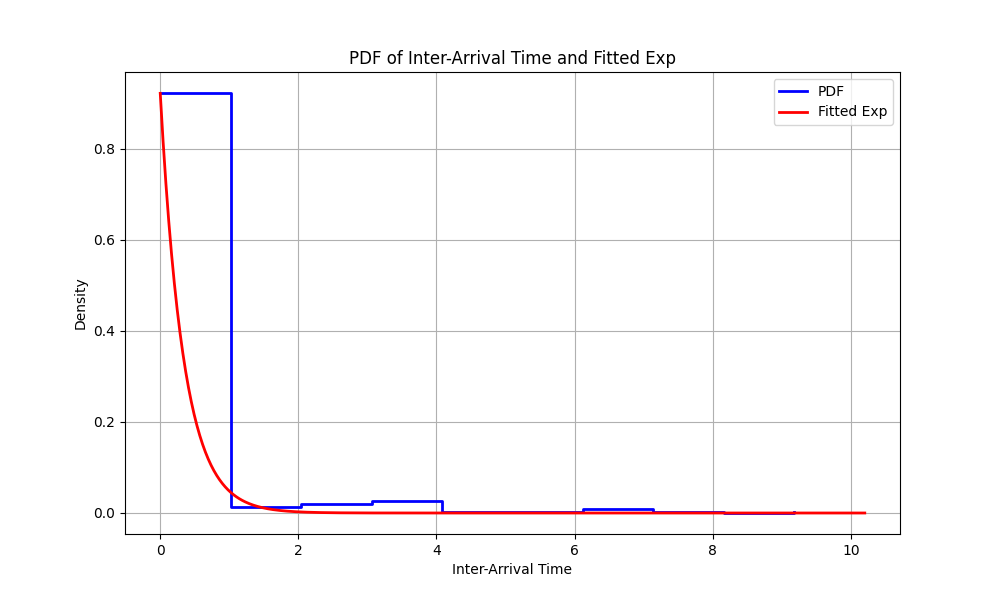
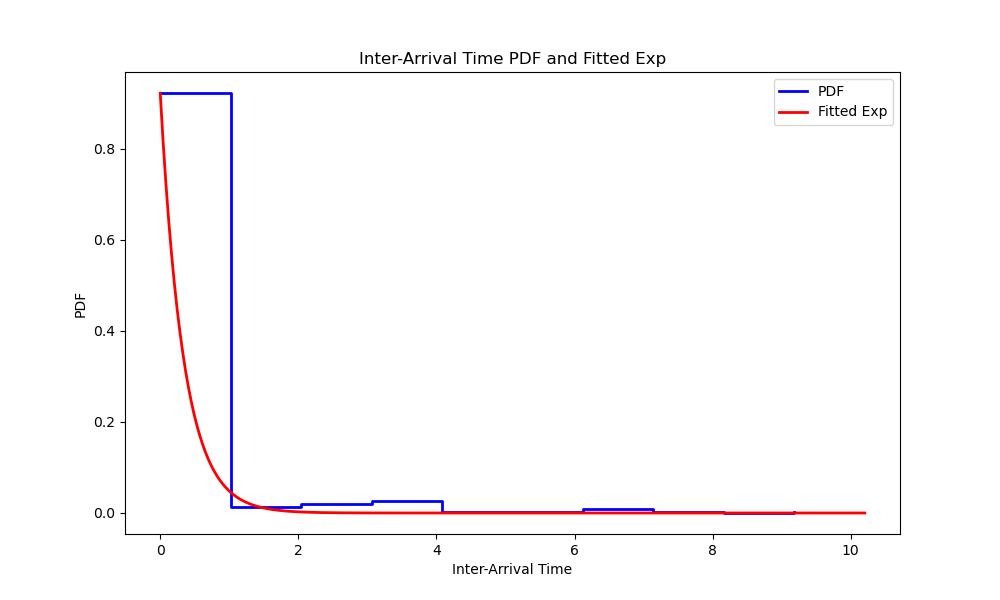
add os path do the PDF code

Changed region(s): [[0.341, 0.06, 0.682, 0.12], [0.062, 0.48, 0.093, 0.54], [0.837, 0.9, 0.868, 0.93]]

diff --git a/src/PDF.py b/src/PDF.py
@@ -4,48 +4,49 @@ import pandas as pd
 import matplotlib.pyplot as plt
 
 
-def pdf_plot(input_folder, output_folder, bins=10):
-    if not os.path.exists(output_folder):
-        os.makedirs(output_folder)
+def custom_pdf_plot(csv_folder, output_dir, num_bins=10):
+    for filename in os.listdir(csv_folder):
+        if 'Noise' not in filename and filename.endswith('.csv'):
+            print(filename)
+            file_path = os.path.join(csv_folder, filename)
+            data_df = pd.read_csv(file_path)
+            data_df = data_df.drop(['No.'], axis=1)
+            data_df['Delay'] = pd.to_numeric(data_df['Time']).diff()
 
-    for filename in os.listdir(input_folder):
-        if filename != 'Noise' and filename.endswith('.csv'):
-            file_path = os.path.join(input_folder, filename)
-            df = pd.read_csv(file_path)
-            df = df.drop(['No.'], axis=1)
-            df['Delay'] = pd.to_numeric(df['Time']).diff()
+            clean_data = data_df.dropna(subset=['Delay'])
 
-            cleaned = df.dropna(subset=['Delay'])
-
-            counts, edges = np.histogram(cleaned['Delay'], bins=bins, density=True)
-
+            counts, edges = np.histogram(clean_data['Delay'], bins=num_bins, density=True)
             pdf = counts / sum(counts)
 
             plt.figure(figsize=(10, 6))
-
             plt.step(edges[:-1], pdf, where='post', color='blue', lw=2, label='PDF')
 
-            rate = 1. / np.mean(df['Delay'])
-            width = edges[1] - edges[0]
-            scale = max(pdf) / (rate * np.exp(-rate * edges[np.argmax(pdf)]))
+            mean_delay = 1. / np.mean(data_df['Delay'])
+            bin_width = edges[1] - edges[0]
+            scale_factor = max(pdf) / (mean_delay * np.exp(-mean_delay * edges[np.argmax(pdf)]))
 
             x = np.linspace(0, max(edges), 500)
-            y = scale * rate * np.exp(-rate * x)
+            y = scale_factor * mean_delay * np.exp(-mean_delay * x)
 
             plt.plot(x, y, color='red', lw=2, label='Fitted Exp')
 
             plt.xlabel('Inter-Arrival Time')
-            plt.ylabel('Density')
-            plt.title('PDF of Inter-Arrival Time and Fitted Exp')
+            plt.ylabel('PDF')
+            plt.title('Inter-Arrival Time PDF and Fitted Exp')
             plt.legend()
 
             output_filename = os.path.splitext(filename)[0] + '_plot.png'
-            output_path = os.path.join(output_folder, output_filename)
+            output_path = os.path.join(output_dir, output_filename)
             plt.savefig(output_path)
-
             plt.close()
 
 
-input_folder = '/home/ofr/PycharmProjects/FinalProject/resources/csvFiles'
-output_folder = '/home/ofr/PycharmProjects/FinalProject/res/PDFPlots'
-pdf_plot(input_folder,output_folder)
+# Get the parent directory of the current script
+script_parent_dir = os.path.abspath(os.path.join(os.path.dirname(__file__), '..'))
+
+# Define paths for CSV files and output plots
+csv_files_folder = os.path.join(script_parent_dir, 'resources', 'csvFiles')
+output_plots_folder = os.path.join(script_parent_dir, 'res', 'PDFPlots')
+
+# Call the custom_pdf_plot function
+custom_pdf_plot(csv_files_folder, output_plots_folder)

diff --git a/src/Histograms.py b/src/Histograms.py
@@ -29,20 +29,17 @@ def create_histogram(csv_file, output_folder, file_name,num_bins=50):
 
 # Get the parent directory of the current script (src folder)
 parent_directory = os.path.abspath(os.path.join(os.path.dirname(__file__), '..'))
-
 # Construct the path to the csvFiles folder
-folder_path = os.path.join(parent_directory, 'resources', 'csvFiles')
-
-
+csv_files = os.path.join(parent_directory, 'resources', 'csvFiles')
 # Navigate to the output folder within the res folder
 output_folder = os.path.join(parent_directory, 'res', 'HistogramsPlots')
 
 # List all files in the directory
-csv_files = [file for file in os.listdir(folder_path) if file.endswith('.csv') and file not in ['Noise.csv', 'Mix.csv']]
+csv_files = [file for file in os.listdir(csv_files) if file.endswith('.csv') and file not in ['Noise.csv', 'Mix.csv']]
 
 # Process each CSV file
 for csv_file in csv_files:
-    csv_path = os.path.join(folder_path, csv_file)
+    csv_path = os.path.join(csv_files, csv_file)
     # Extract the name of the file (without the extension)
     file_name = os.path.splitext(csv_file)[0]
     create_histogram(csv_path, output_folder,file_name)
